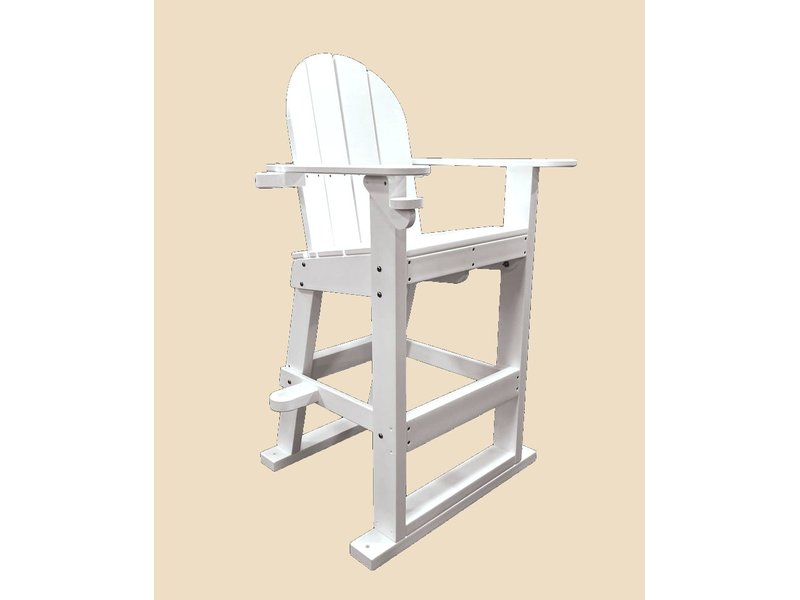
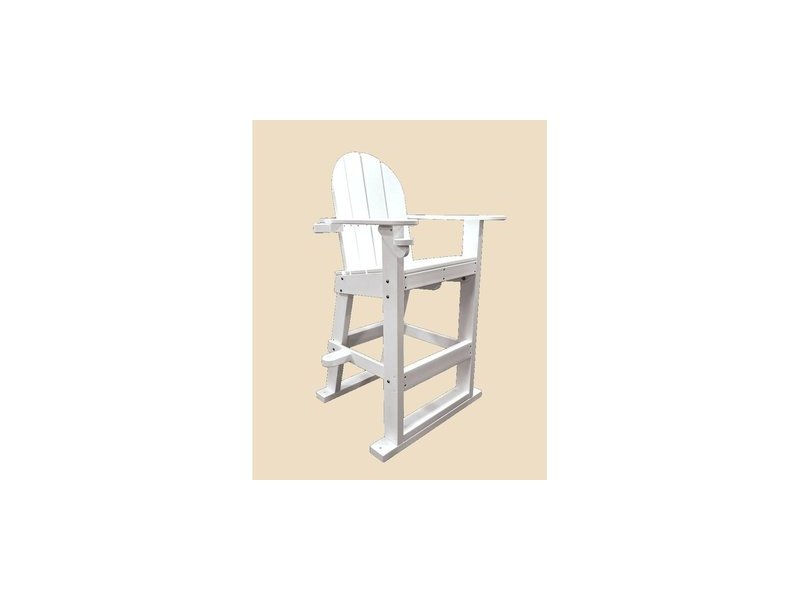
lifeguard-chair-1: object-fit contain to show full chair without cropping

diff --git a/shop.html b/shop.html
@@ -112,7 +112,7 @@
         <div class="product-card" data-category="pool_equipment">
           <div class="product-gallery">
             <div class="gallery-main">
-              <img src="images/products/lifeguard-chair-1.jpg" alt="Lifeguard Chair">
+              <img src="images/products/lifeguard-chair-1.jpg" alt="Lifeguard Chair" style="object-fit: contain;">
               <img src="images/products/lifeguard-chair-2.jpg" alt="Lifeguard Chair — alternate view">
               <img src="images/products/lifeguard-chair-3.jpg" alt="Lifeguard Chair — alternate view">
               <img src="images/products/lifeguard-chair-4.jpg" alt="Lifeguard Chair — alternate view">
